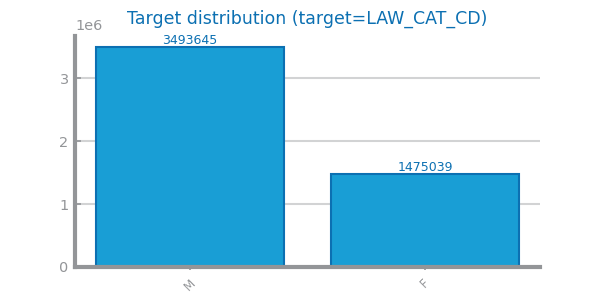
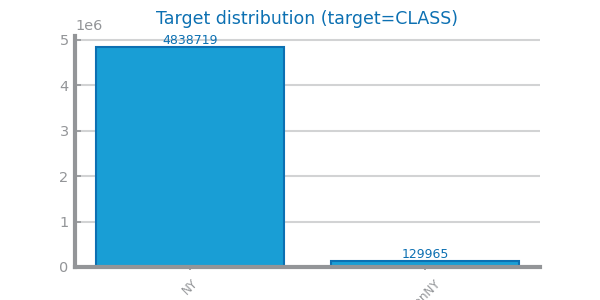
target chnaged for profiling

diff --git a/Data_Profiling/processing_sparity_security.py b/Data_Profiling/processing_sparity_security.py
@@ -13,9 +13,9 @@ data = data.dropna()
 
 
 vars: list = data.columns.to_list()
-
+"""
 if [] != vars:
-    target = "LAW_CAT_CD"
+    target = "CLASS"
 
     n: int = len(vars) - 1
     fig: Figure
@@ -28,7 +28,7 @@ if [] != vars:
             print(f"Processing {i + 1}: {j + 1} of {len(vars)}")
             var2: str = vars[j]
             plot_multi_scatters_chart(data, var1, var2, ax=axs[i, j - 1])
-    savefig(f"Images/{file_tag}_sparsity_study.png")
+    savefig(f"Data_Profiling/Images/{file_tag}_sparsity_study.png")
     show()
 else:
     print("Sparsity class: there are no variables.")
@@ -38,7 +38,7 @@ else:
 """
 # Sparsity per class individual
 if [] != vars:
-    target = "LAW_CAT_CD"
+    target = "CLASS"
 
 
     for i in range(len(vars)):
@@ -49,13 +49,13 @@ if [] != vars:
             var2: str = vars[j]
             plot_multi_scatters_chart(data,var1, var2, target,ax=ax)
             print(f"Saving {file_tag}_{i+1}_{j+1}_sparsity_per_class_study.png")
-            savefig(f"Images/{file_tag}_{i+1}_{j+1}_sparsity_per_class_study.png")
+            savefig(f"Data_Profiling/Images/153/{file_tag}_{i+1}_{j+1}_sparsity_per_class_study.png")
     else:
         print("Sparsity per class: there are no variables.")
 """
 # Sparsity per class all
 if [] != vars:
-    target = "LAW_CAT_CD"
+    target = "CLASS"
 
     n: int = len(vars) - 1
     fig, axs = subplots(n, n, figsize=(n * HEIGHT/2, n * HEIGHT/2), squeeze=False)
@@ -66,7 +66,7 @@ if [] != vars:
             var2: str = vars[j]
             plot_multi_scatters_chart(data, var1, var2, target, ax=axs[i, j - 1])
             print(f"Processing {i + 1}: {j + 1} of {len(vars)}")
-    savefig(f"Images/{file_tag}_sparsity_per_class_study.png")
+    savefig(f"Data_Profiling/Images/{file_tag}_sparsity_per_class_study.png")
     #show()
 else:
     print("Sparsity per class: there are no variables.")
@@ -85,5 +85,6 @@ heatmap(
     vmin=0,
     vmax=1,
 )
-savefig(f"Images/{file_tag}_correlation_analysis.png")
+savefig(f"Data_Profiling/Images/{file_tag}_correlation_analysis.png")
 show()
+"""

diff --git a/Data_Profiling/processing_dimensionality_security.py b/Data_Profiling/processing_dimensionality_security.py
@@ -18,10 +18,8 @@ data: DataFrame = read_csv(filename, na_values="", index_col=None)
 
 print(data.shape)
 
-data['CLASS'] = data['JURISDICTION_CODE'].apply(lambda x: 'NY' if x <3 else 'nonNY')
-
-# save
-data.to_csv(filename, index=False)
+# data['CLASS'] = data['JURISDICTION_CODE'].apply(lambda x: 'NY' if x <3 else 'nonNY')
+# data.to_csv(filename, index=False)
 
 
 # Plot a graph with each of them
@@ -30,7 +28,7 @@ values: dict[str, int] = {"nr records": data.shape[0], "nr variables": data.shap
 plot_bar_chart(
     list(values.keys()), list(values.values()), title="Nr of records vs nr variables"
 )
-savefig(f"Images/{file_tag}_records_variables.png")
+savefig(f"Data_Profiling/Images/{file_tag}_records_variables.png")
 #show()
 
 # Missing Values of each variable
@@ -48,7 +46,7 @@ plot_bar_chart(
     xlabel="variables",
     ylabel="nr missing values",
 )
-savefig(f"Images/{file_tag}_mv.png")
+savefig(f"Data_Profiling/Images/{file_tag}_mv.png")
 #show()
 
 # Show the different Variable Types
@@ -63,5 +61,5 @@ figure(figsize=(4, 5))
 plot_bar_chart(
     list(counts.keys()), list(counts.values()), title="Nr of variables per type"
 )
-savefig(f"Images/{file_tag}_variable_types.png")
+savefig(f"Data_Profiling/Images/{file_tag}_variable_types.png")
 #show()

diff --git a/Data_Profiling/processing_granularity_security.py b/Data_Profiling/processing_granularity_security.py
@@ -34,5 +34,5 @@ data_ext: DataFrame = derive_date_variables(data, variables_types["date"])
 
 for v_date in variables_types["date"]:
     analyse_date_granularity(data, v_date, ["year", "quarter", "month", "day"])
-    savefig(f"images/{file_tag}_granularity_{v_date}.png")
+    savefig(f"Data_Profiling/Images/{file_tag}_granularity_{v_date}.png")
     show()

diff --git a/Data_Profiling/processing_distribution_security.py b/Data_Profiling/processing_distribution_security.py
@@ -245,7 +245,7 @@ else:
     print("There are no symbolic variables.")
 
     
-target = "LAW_CAT_CD"
+target = "CLASS"
 print(data[target].value_counts())
 values: Series = data[target].value_counts()
 print(values)
